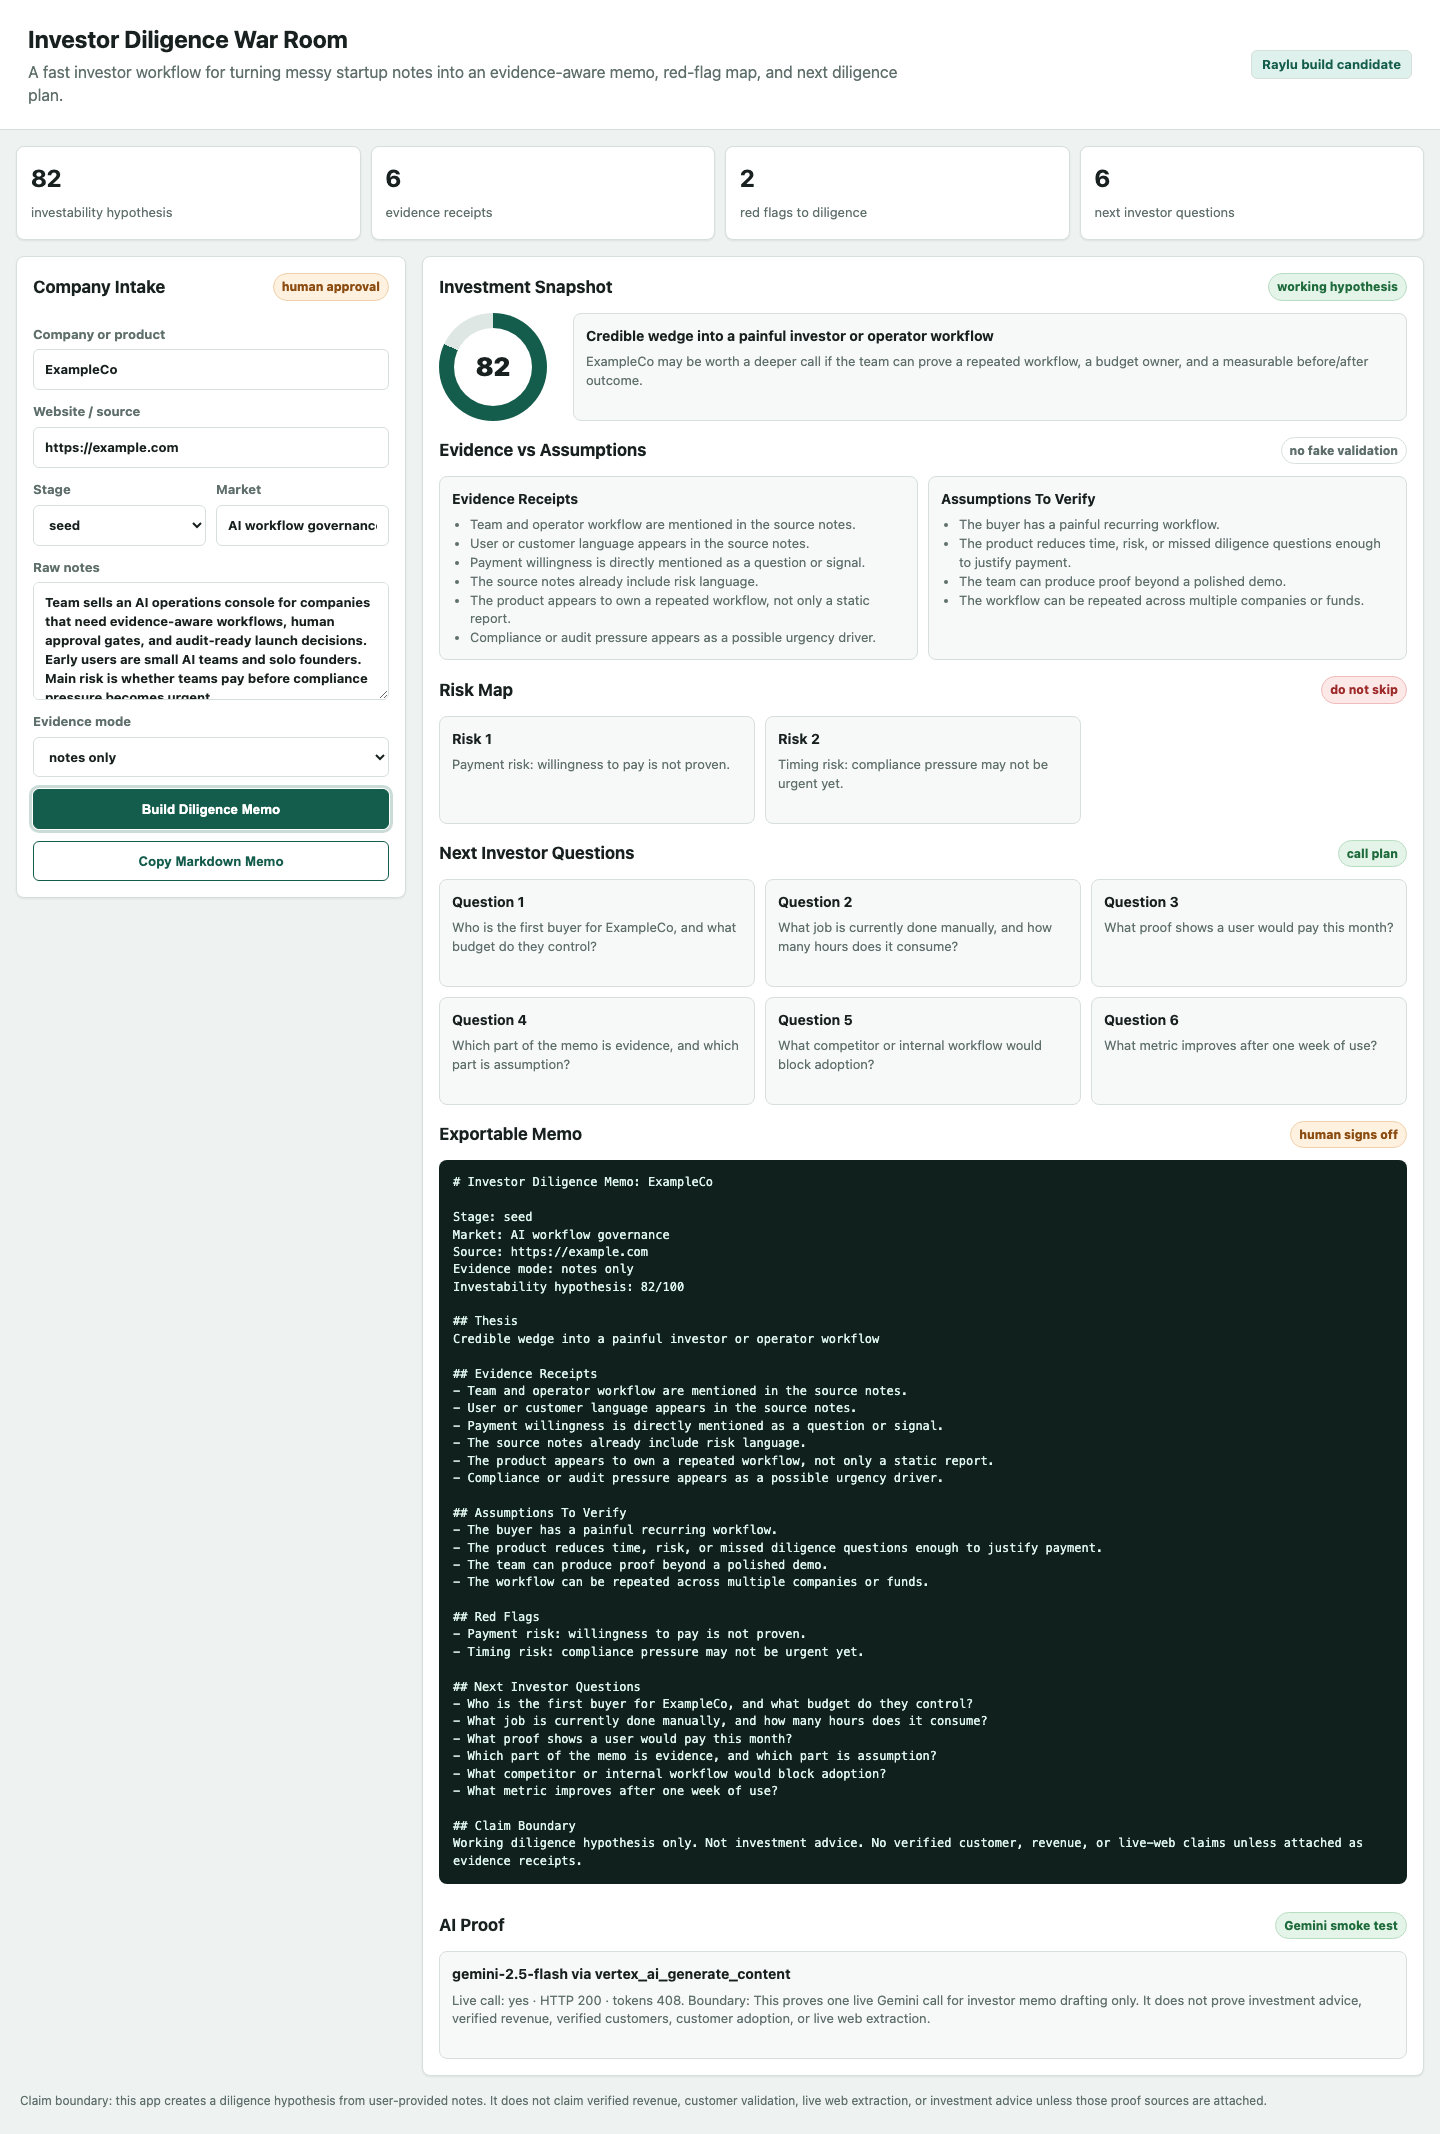
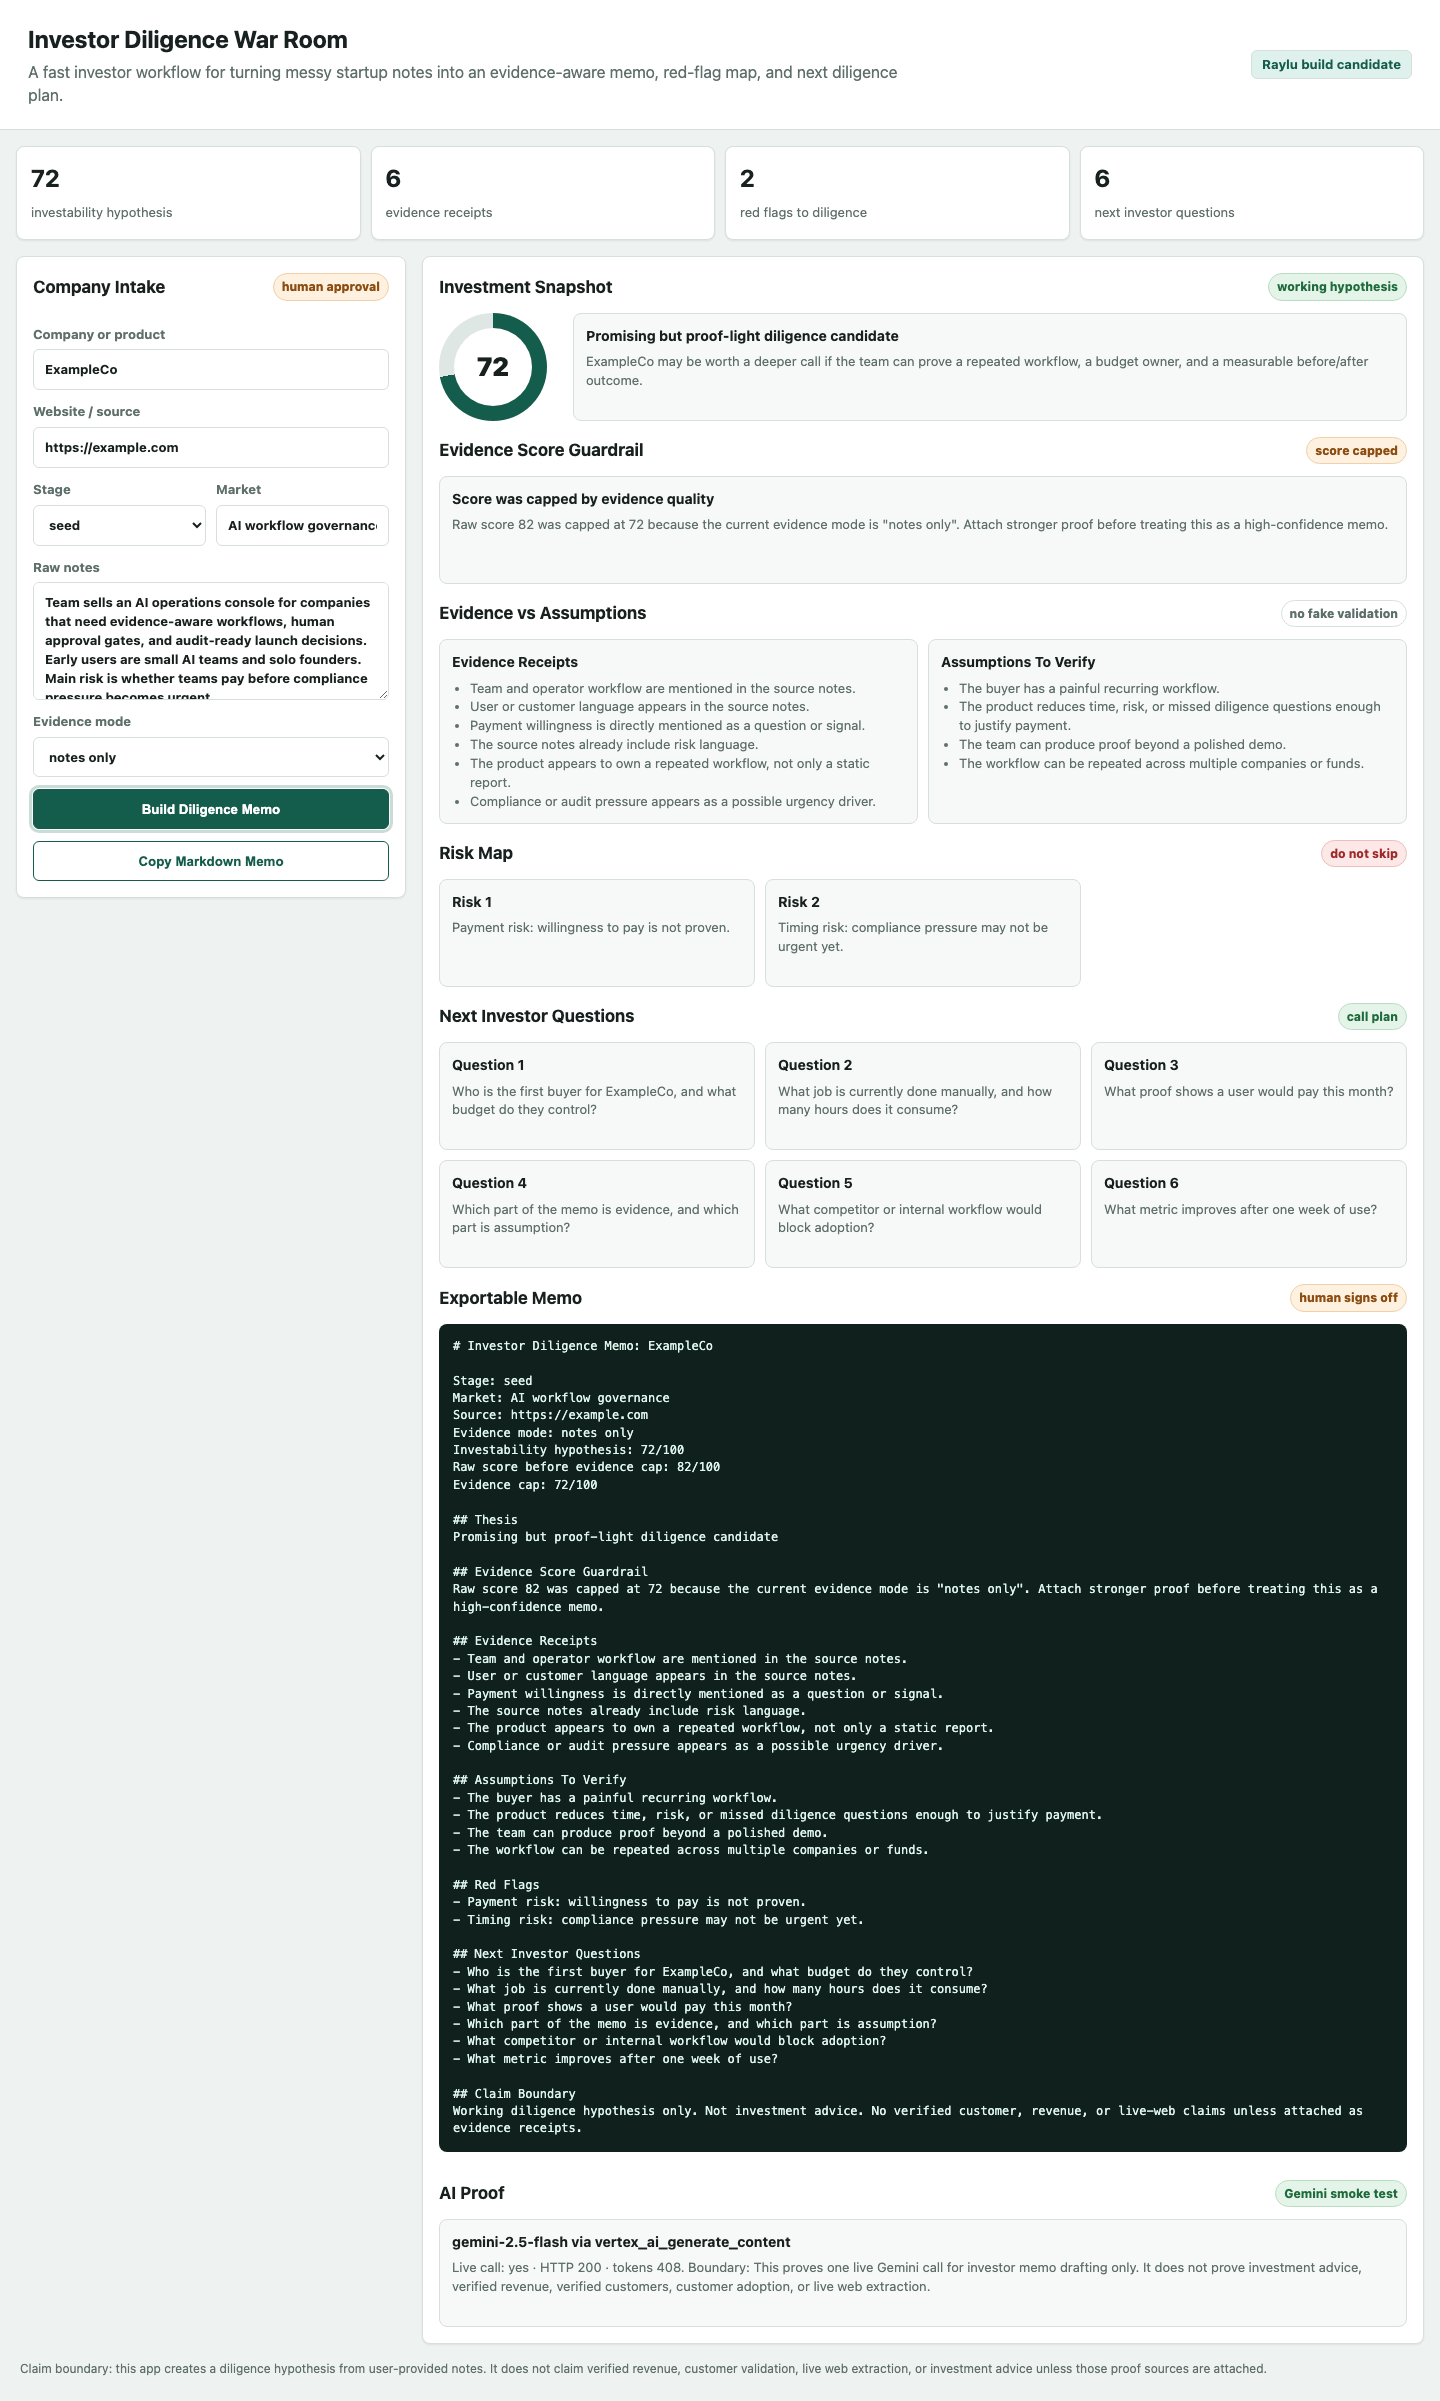
Add evidence score guardrail

diff --git a/index.html b/index.html
@@ -285,6 +285,17 @@
 
       <div>
         <div class="panel-title">
+          <h2>Evidence Score Guardrail</h2>
+          <span class="pill warn" id="guardrailPill">evidence cap</span>
+        </div>
+        <div class="card">
+          <h3 id="guardrailTitle">Score is capped until stronger proof is attached</h3>
+          <p id="guardrailText">Notes-only diligence can create a useful hypothesis, but it should not look more certain than the evidence allows.</p>
+        </div>
+      </div>
+
+      <div>
+        <div class="panel-title">
           <h2>Evidence vs Assumptions</h2>
           <span class="pill">no fake validation</span>
         </div>
@@ -360,7 +371,7 @@
       ]
     };
 
-    function scoreCompany(notes, stage) {
+    function rawScoreCompany(notes, stage) {
       const lower = notes.toLowerCase();
       let score = 50;
       ['workflow', 'team', 'customer', 'user', 'pay', 'risk', 'governance', 'audit', 'evidence'].forEach((word) => {
@@ -370,6 +381,32 @@
       if (stage === 'growth') score -= 4;
       if (!lower.includes('pay') && !lower.includes('revenue')) score -= 8;
       return Math.max(22, Math.min(91, score));
+    }
+
+    function applyEvidenceCap(rawScore, evidenceMode, notes) {
+      const lower = notes.toLowerCase();
+      const caps = {
+        'notes only': 72,
+        'public website plus notes': 78,
+        'customer call notes': 82,
+        'data room summary': 86
+      };
+      let cap = caps[evidenceMode] || 72;
+      const strongSignals = ['revenue', 'paying customer', 'contract', 'signed', 'retention', 'data room'];
+      if (strongSignals.some((signal) => lower.includes(signal))) {
+        cap = Math.min(91, cap + 5);
+      }
+      const score = Math.min(rawScore, cap);
+      const capped = score < rawScore;
+      return {
+        rawScore,
+        score,
+        cap,
+        capped,
+        message: capped
+          ? `Raw score ${rawScore} was capped at ${cap} because the current evidence mode is "${evidenceMode}". Attach stronger proof before treating this as a high-confidence memo.`
+          : `Raw score ${rawScore} is within the ${cap}-point cap for "${evidenceMode}". Keep the score labeled as a working hypothesis until proof is attached.`
+      };
     }
 
     function bulletsFrom(patternList, notes, fallback) {
@@ -387,7 +424,8 @@
       const market = $('market').value.trim() || 'unspecified market';
       const notes = $('notes').value.trim() || 'No notes provided.';
       const evidenceMode = $('evidenceMode').value;
-      const score = scoreCompany(notes, stage);
+      const guardrail = applyEvidenceCap(rawScoreCompany(notes, stage), evidenceMode, notes);
+      const score = guardrail.score;
 
       const evidence = bulletsFrom(patterns.evidence, notes, [
         'Only user-provided notes are available.',
@@ -420,7 +458,7 @@
           : 'Interesting idea, but not investable without sharper proof';
       const claimBoundary = 'Working diligence hypothesis only. Not investment advice. No verified customer, revenue, or live-web claims unless attached as evidence receipts.';
 
-      return { company, website, stage, market, notes, evidenceMode, score, thesis, evidence, assumptions, risks, questions, claimBoundary };
+      return { company, website, stage, market, notes, evidenceMode, score, thesis, evidence, assumptions, risks, questions, guardrail, claimBoundary };
     }
 
     function renderList(id, items) {
@@ -444,9 +482,14 @@ Market: ${packet.market}
 Source: ${packet.website}
 Evidence mode: ${packet.evidenceMode}
 Investability hypothesis: ${packet.score}/100
+Raw score before evidence cap: ${packet.guardrail.rawScore}/100
+Evidence cap: ${packet.guardrail.cap}/100
 
 ## Thesis
 ${packet.thesis}
+
+## Evidence Score Guardrail
+${packet.guardrail.message}
 
 ## Evidence Receipts
 ${packet.evidence.map((item) => `- ${item}`).join('\n')}
@@ -474,6 +517,12 @@ ${packet.claimBoundary}`;
       $('questionMetric').textContent = packet.questions.length;
       $('thesisTitle').textContent = packet.thesis;
       $('thesisText').textContent = `${packet.company} may be worth a deeper call if the team can prove a repeated workflow, a budget owner, and a measurable before/after outcome.`;
+      $('guardrailPill').textContent = packet.guardrail.capped ? 'score capped' : 'cap clear';
+      $('guardrailPill').className = `pill ${packet.guardrail.capped ? 'warn' : 'good'}`;
+      $('guardrailTitle').textContent = packet.guardrail.capped
+        ? 'Score was capped by evidence quality'
+        : 'Score is within the evidence cap';
+      $('guardrailText').textContent = packet.guardrail.message;
       renderList('evidenceList', packet.evidence);
       renderList('assumptionList', packet.assumptions);
       renderCards('riskGrid', packet.risks, 'Risk');

diff --git a/scripts/verify_claim_boundary.py b/scripts/verify_claim_boundary.py
@@ -18,6 +18,8 @@ checks = {
     ],
     "index.html": [
         "working hypothesis",
+        "Evidence Score Guardrail",
+        "Score is capped",
         "It does not claim verified revenue",
         "Claim boundary",
     ],
@@ -30,4 +32,3 @@ for rel, markers in checks.items():
         raise SystemExit(f"{rel} missing markers: {missing}")
 
 print("investor_diligence_claim_boundary_ok")
-

diff --git a/README.md b/README.md
@@ -9,7 +9,8 @@ It is being built for Build & Pitch w/ Raylu.
 - Live app: https://daideguchi.github.io/investor-diligence-war-room/
 - GitHub repo: https://github.com/daideguchi/investor-diligence-war-room
 - Release assets: https://github.com/daideguchi/investor-diligence-war-room/releases/tag/v0.1-submission
-- Submission status: not final-submitted yet
+- Devpost project: https://devpost.com/software/investor-diligence-war-room
+- Submission status: submitted on Devpost
 
 ## Judge Quick Read
 
@@ -35,6 +36,7 @@ Investor Diligence War Room creates a memo while separating evidence receipts, a
 
 - Takes company, website, stage, market, and raw notes.
 - Generates an investability hypothesis.
+- Caps the score when evidence is too thin.
 - Separates evidence from assumptions.
 - Builds red flags and next diligence questions.
 - Exports a Markdown memo.
@@ -147,6 +149,6 @@ Current status:
 
 ```text
 Public prototype live on GitHub Pages.
-No final Devpost submission yet.
+Final Devpost submission completed for Build & Pitch w/ Raylu.
 No real investor/customer validation claimed yet.
 ```

diff --git a/SUBMISSION_PACKAGE.md b/SUBMISSION_PACKAGE.md
@@ -23,7 +23,7 @@ The problem is simple: early diligence is messy. A reviewer may have a company w
 
 This product is built around that boundary.
 
-The app takes a company name, website, stage, market, and raw notes. It produces an investability hypothesis, evidence receipts, assumptions to verify, red flags, next investor questions, and an exportable Markdown memo. The score is deliberately labeled as a working hypothesis, not an investment decision. Revenue, customers, and market claims stay unverified unless proof is attached.
+The app takes a company name, website, stage, market, and raw notes. It produces an investability hypothesis, evidence receipts, assumptions to verify, red flags, next investor questions, and an exportable Markdown memo. The score is deliberately labeled as a working hypothesis, not an investment decision. It also includes an Evidence Score Guardrail: notes-only diligence can still generate a memo, but the score is capped until stronger proof such as public sources, customer calls, contracts, revenue, or a data-room summary is attached. Revenue, customers, and market claims stay unverified unless proof is attached.
 
 The novel insight is that investor AI tooling should not only make memos faster. It should make uncertainty easier to see. The workflow is not a generic chatbot; it is a structured diligence room that turns the output into a call plan and review artifact.
 
@@ -36,6 +36,7 @@ The business wedge is practical: scouts and investors already work in memos, and
 The app produces:
 
 - an investability hypothesis
+- an evidence-based score cap
 - evidence receipts
 - assumptions to verify
 - red flags